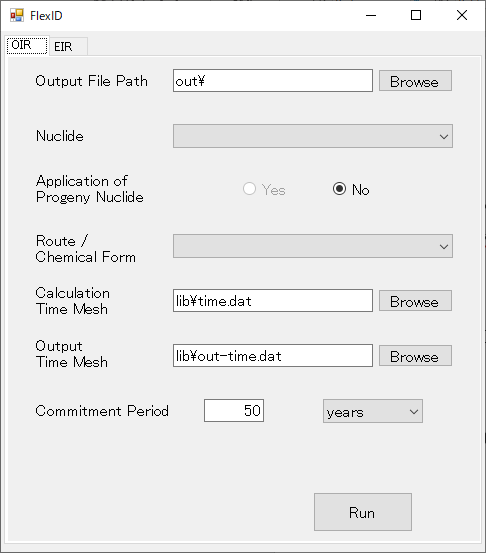
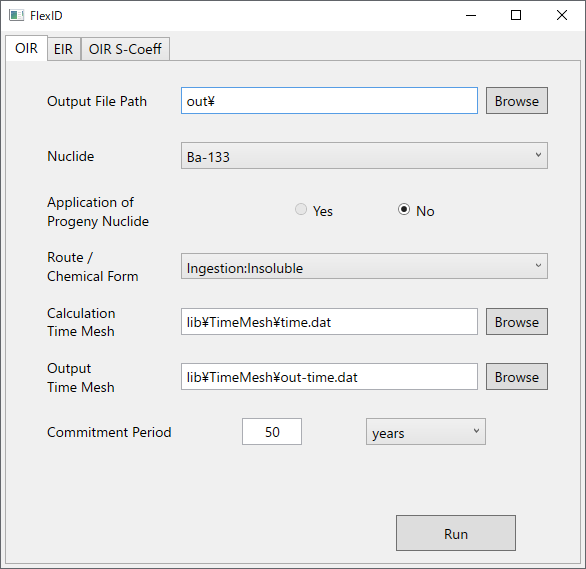
fix: マニュアル本文の説明を更新
- S-Coefficientプログラムの削除を反映
- OIR S係数計算処理画面の追加を反映
- 添付資料の変更を反映

diff --git a/docs/UserManual_jp.md b/docs/UserManual_jp.md
@@ -41,24 +41,20 @@ FlexID
   ┗ FlexID.Viewer.exe（出力画面プログラム）
 ```
 
-以下にFlexIDプログラムで使用するS-Coefficientファイル作成に必要となるS-Coefficient.exeプログラムのフォルダの構成を示す。
-
-```
-S-Coefficient
-  ┣ lib（S-Coefficient計算に使用するライブラリデータ（※））
-  ┃   ┣ NuclideList.txt（計算対象核種名リスト）
-  ┃   ┗ S-Coefficient_Tmp.xlsx（計算出力のテンプレートファイル）
-  ┣ S-Coefficient.exe（S-Coefficient計算プログラム）
-  ┣ S-Coefficient計算.xlsx（その他の組織のS-Coefficient計算用Excelファイル）
-  ┣ S係数ソート.xlsm（IDCA Dose2.1プログラムと同じ臓器順に計算した
-  ┃                    S-Coefficientを並び替えるExcelマクロファイル）
-  ┗ out（計算結果出力フォルダ）
-```
-
 ※ 以下のファイルは、ユーザーの責任において入手してlibフォルダ直下に配置して使用する。
 
-- ICRP-07.BET, ICRP-07.RAD：ICRP Publication 107 Supplemental Materialから入手
-- rcp-af_alpha_2017-03-07.SAF, rcp-af_electron_2017-03-07.SAF, rcp-af_neutron_2017-03-07.SAF, rcp-af_photon_2017-03-07.SAF, rcp-am_alpha_2017-03-07.SAF, rcp-am_electron_2017-03-07.SAF, rcp-am_neutron_2017-03-07.SAF, rcp-am_photon_2017-03-07.SAF ： ICRP Publication 133 Supplemental Material から入手
+- ICRP Publication 107 Supplemental Materialから入手
+  - ICRP-07.RAD
+  - ICRP-07.BET
+- ICRP Publication 133 Supplemental Material から入手
+  - rcp-am_alpha_2017-03-07.SAF
+  - rcp-af_alpha_2017-03-07.SAF
+  - rcp-am_electron_2017-03-07.SAF
+  - rcp-af_electron_2017-03-07.SAF
+  - rcp-am_neutron_2017-03-07.SAF
+  - rcp-af_neutron_2017-03-07.SAF
+  - rcp-am_photon_2017-03-07.SAF
+  - rcp-af_photon_2017-03-07.SAF
 
 # 5. 主な機能
 
@@ -67,6 +63,7 @@ FlexID の主な機能を以下に示す。
 - 臓器／組織ごとの残留・積算放射能量の計算（[添付資料1](UserManual_Appendix-1.md) 参照）
 - 臓器／組織ごとの等価線量、積算線量、及び線量率の計算（[添付資料2](UserManual_Appendix-2.md) 参照）
 - 預託実効線量、積算線量、及び線量率の計算（[添付資料2](UserManual_Appendix-2.md) 参照）
+- 核種ごとのS-Coefficientの計算（[添付資料3](UserManual_Appendix-3.md) 参照）
 
 # 6. 入力画面の操作方法
 
@@ -79,11 +76,11 @@ FlexID の主な機能を以下に示す。
    - OIR：職業人の内部被ばく（Occupational Intakes of Radionuclides）
    - EIR：公衆の構成員の内部被ばく（Environmental Intakes of Radionuclides）
 
-# 7. OIRの場合
+# 7. OIR計算実行画面
 
 ![img](images/Figure_1.png)
 
-新しい核種を追加するためのインプットファイル作成方法（S-Coefficientファイル作成方法を含む）は、[添付資料3](UserManual_Appendix-3.md)、[添付資料4](UserManual_Appendix-4.md)を参照。
+新しい核種を追加するためのインプットファイル作成方法は、[添付資料4](UserManual_Appendix-4.md)を参照。
 
 - ① 出力フォルダパスおよび出力ファイルの先頭につく共通ファイル名を記載する。
 
@@ -110,11 +107,11 @@ FlexID の主な機能を以下に示す。
 
 - ⑦ 預託期間を整数で入力後、コンボボックスの中から預託期間の単位を選択する
 
-    計算タイムメッシュファイルの作成方法：[添付資料3](UserManual_Appendix-3.md)参照
+    計算タイムメッシュファイルの作成方法：[添付資料4](UserManual_Appendix-4.md)参照
 
-    出力タイムメッシュファイルの作成方法：[添付資料3](UserManual_Appendix-3.md)参照
+    出力タイムメッシュファイルの作成方法：[添付資料4](UserManual_Appendix-4.md)参照
 
-# 8. EIRの場合
+# 8. EIR計算実行画面
 
 ![img](images/Figure_2.png)
 
@@ -145,9 +142,21 @@ FlexID の主な機能を以下に示す。
 
 - ⑧ コンボボックスの中から被ばく時の年齢（摂取時年齢）を選択する。
 
-# 9. 結果表示画面(Model)の説明
+# 9. S係数作成画面
 
 ![img](images/Figure_3.png)
+
+- ① 出力フォルダパスを記載する。
+
+- ② 出力対象の性別として、男性、女性を選択する。
+
+- ③ SAF値の補間方法として、PCHIP（区分的3次エルミート内挿多項式）による補間、または線形補間を選択する。
+
+- ④ 出力対象の核種にチェックを入れて選択する。
+
+# 10. 結果表示画面(Model)の説明
+
+![img](images/Figure_4.png)
 
 - ① 結果表示のために読み込むファイルを選択する。
 
@@ -170,9 +179,9 @@ FlexID の主な機能を以下に示す。
 
 なお、計算済みの結果を表示する場合は、`FlexID\FlexID.Viewer.exe`をダブルクリックする。
 
-# 10. 結果表示画面(Graph)の説明
+# 11. 結果表示画面(Graph)の説明
 
-![img](images/Figure_4.png)
+![img](images/Figure_5.png)
 
 - ① コンボボックスの中から表示するデータを選択する。
     
